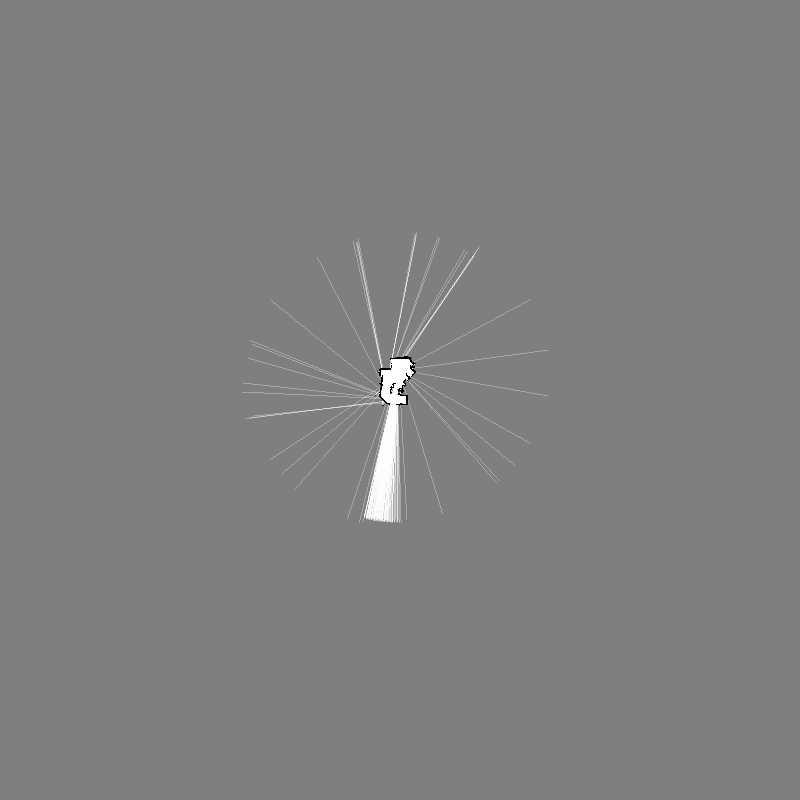
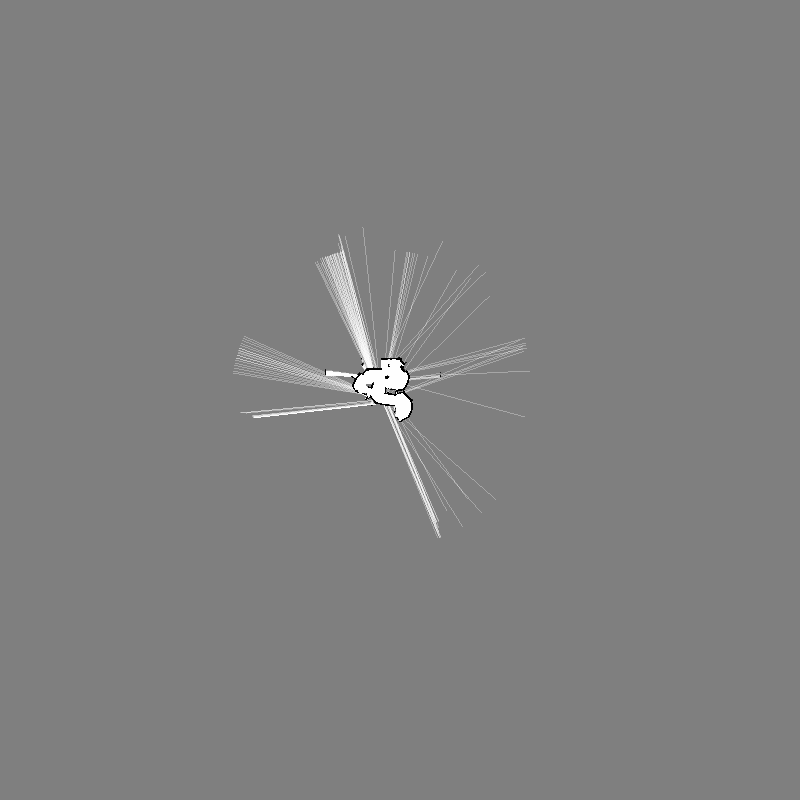
slave

Changed region(s): [[0.2812, 0.2812, 0.6562, 0.6562]]

diff --git a/ros_slave_ws/src/mrpt_slam/src/slammer.cpp b/ros_slave_ws/src/mrpt_slam/src/slammer.cpp
@@ -3,7 +3,7 @@
 slammer::slammer(ros::NodeHandle & node)
 : planner(), navigator(node), iniFile__("icp_config.ini")
 {
-    poser__ = node.advertise<std_msgs::String>("coordinates", 30);
+    poser__ = node.advertise<std_msgs::String>("coordinates", 100);
     collision__ = node.advertise<std_msgs::String>("collision", 100);
     free_way__ = node.advertise<std_msgs::String>("distance", 100);
 
@@ -14,6 +14,10 @@ slammer::slammer(ros::NodeHandle & node)
                                     0, 
                                     mrpt::utils::DEG2RAD(180)); // roll
 
+    if (grid__.loadFromBitmapFile("grid_map.png", 0.04)) {
+        std::cout << "loaded grid map" << std::endl;
+        loaded__ = true;
+    }
     builder__.options.verbose = false;
     builder__.ICP_options.loadFromConfigFile(iniFile__, "MappingApplication");
     builder__.ICP_params.loadFromConfigFile(iniFile__, "ICP");
@@ -53,27 +57,30 @@ void slammer::read_lazors(const sensor_msgs::LaserScan::ConstPtr & scan)
     mrpt::poses::CPose3D robotpose;
     builder__.getCurrentPoseEstimation()->getMean(robotpose);
     auto pose = std::make_shared<mrpt::poses::CPose3D>(robotpose);
-    grid__.insertObservation(obs.get(), pose.get());
+
+    if (!loaded__) {
+        grid__.insertObservation(obs.get(), pose.get());
+    }
 
     // TODO: move loop out of here, this callbacle by a topic `planner`
-    //calculate_path();
+    //calculate_path(robotpose);
+    get_pose();
     //if ((ros::Time::now().toSec() - timer__) > 0.1) {
-    //    navigator::navigate(robotpose, obs->scan);
+    //navigator::navigate(robotpose, obs->scan);
     //    timer__ = ros::Time::now().toSec();
     //}
 
-
-    if ((ros::Time::now().toSec() - start__) > 10) {
-        std::cout << "saving map" << std::endl;
+    if ((ros::Time::now().toSec() - start__) > 30) {
         builder__.saveCurrentEstimationToImage("icp_map", true);
-        grid__.saveAsBitmapFile("grid_map.png");
+        if (!loaded__) {
+            grid__.saveAsBitmapFile("grid_map.png");
+        }
         start__ = ros::Time::now().toSec();
     }
 }
 
-void slammer::calculate_path()
+void slammer::calculate_path(mrpt::poses::CPose3D robotpose)
 {
-    mrpt::poses::CPose3D robotpose;
     planner::path_planner(grid__, robotpose);
 }
 
@@ -92,27 +99,27 @@ void slammer::get_pose()
 
 void slammer::collision_angles( std::vector<float> lidar_angles) 
 {
-    int front, l_front, r_front, l_back, r_back, back;
-    front = l_front = r_front = l_back = r_back = back = 0;
+    bool front, l_front, r_front, l_back, r_back, back;
+    front = l_front = r_front = l_back = r_back = back = false;
 
     for (const auto & angle : lidar_angles) {
         if (angle <= 30 || angle >= 330) {
-            front = 1;
+            front = true;
         }     
         else if (angle > 30 && angle <= 90) {
-            l_front = 1;
+            l_front = true;
         }
         else if (angle > 90 && angle <= 150) {
-            l_back = 1;
+            l_back = true;
         }
         else if (angle > 150 && angle <= 210) {
-            back = 1;
+            back = true;
         }
         else if (angle > 210 && angle <= 270) {
-            r_back = 1;
+            r_back = true;
         }
         else if (angle > 270 && angle < 330) {
-            r_front = 1;
+            r_front = true;
         }
     }
     std_msgs::String msg;
@@ -186,6 +193,6 @@ void slammer::avg_distance(
     msg.data = json.dump();
     free_way__.publish(msg);
 
-    std::cout << front_score << " " << right_score << " " << back_score << " " << left_score  << std::endl;
+    //std::cout << front_score << " " << right_score << " " << back_score << " " << left_score  << std::endl;
 
 }

diff --git a/ros_slave_ws/src/mrpt_slam/src/planner.cpp b/ros_slave_ws/src/mrpt_slam/src/planner.cpp
@@ -3,7 +3,7 @@
 planner::planner()
 : path_planner__()
 {
-    path_planner__.robotRadius = 0.25f;
+    path_planner__.robotRadius = 0.2f;
 }
 
 std::deque<mrpt::math::TPoint2D> planner::path_planner(
@@ -17,17 +17,12 @@ std::deque<mrpt::math::TPoint2D> planner::path_planner(
     std::cout << "computePath" << std::endl;
     path_planner__.computePath(map,
                                mrpt::poses::CPose2D(robotpose.x(), robotpose.y(), 0),
-                               mrpt::poses::CPose2D(-0.59, 0.53, 0),
+                               mrpt::poses::CPose2D(-1.51, 0.035, 0),
                                path,
                                path_found, 
-                               -1); //default
+                               5); //default
      
-    if (!path_found){
-        std::cout << " No path found " << std::endl;
-    }
-    else {
-        std::cout << "Path found with: " << path.size() << " steps" << std::endl;    
-    }
+        std::cout << "Path found " << path_found << " steps: "<< path.size() << " steps" << std::endl;    
     return path;
 }
 

diff --git a/ros_slave_ws/src/leds/src/scripts/led_node.py b/ros_slave_ws/src/leds/src/scripts/led_node.py
@@ -1,0 +1,39 @@
+import time
+import RPi.GPIO as GPIO
+import rospy
+import json
+from std_msgs.msg import String
+
+
+# Use board based pin numbering
+GPIO.setmode(GPIO.BOARD)
+
+def callback(data):
+    led_data = json.loads(data.data)
+    light = float(led_data["led"])
+    TurnLed(light);
+
+def TurnLed(light):
+   pin = 11;
+   #GPIO.setmode(GPIO.BCM)
+   GPIO.setwarnings(False)
+   GPIO.setup(pin,GPIO.OUT)
+   if light == 1:
+       GPIO.output(pin,GPIO.HIGH)
+   else
+       GPIO.output(pin,GPIO.LOW)
+   
+def receive_data():
+    rospy.init_node('led', anonymous=True)
+
+    while not rospy.is_shutdown():
+        rospy.Subscriber("leds", String, callback)
+        rospy.spin()
+
+if __name__ == '__main__':
+    try:
+        receive_data()
+    except KeyboardInterrupt:
+        TurnLed(0);    
+    except rospy.ROSInterruptException:
+        TurnLed(0);

diff --git a/ros_slave_ws/src/leds/src/scripts/simple_led.py b/ros_slave_ws/src/leds/src/scripts/simple_led.py
@@ -1,0 +1,23 @@
+import time
+import RPi.GPIO as GPIO
+
+# Use board based pin numbering
+GPIO.setmode(GPIO.BOARD)
+
+def TurnLed(light):
+   pin = 11;
+   #GPIO.setmode(GPIO.BCM)
+   GPIO.setwarnings(False)
+   GPIO.setup(pin,GPIO.OUT)
+   if light == 1:
+       GPIO.output(pin,GPIO.HIGH)
+   else
+       GPIO.output(pin,GPIO.LOW)
+
+if __name__ == '__main__':
+    try:
+        TurnLed(1)
+    except KeyboardInterrupt:
+        TurnLed(0)    
+    except rospy.ROSInterruptException:
+        TurnLed(0)

diff --git a/ros_slave_ws/src/mrpt_slam/src/slammer.hpp b/ros_slave_ws/src/mrpt_slam/src/slammer.hpp
@@ -32,7 +32,7 @@ public:
     // callback for laser data
     void read_lazors(const sensor_msgs::LaserScan::ConstPtr & scan);
 
-    void calculate_path();
+    void calculate_path(mrpt::poses::CPose3D robotpose);
 
     void get_pose();
 
@@ -58,5 +58,6 @@ private:
 
     ros::Publisher poser__, collision__, free_way__;
     
+    bool loaded__ = false;
 };
 #endif
